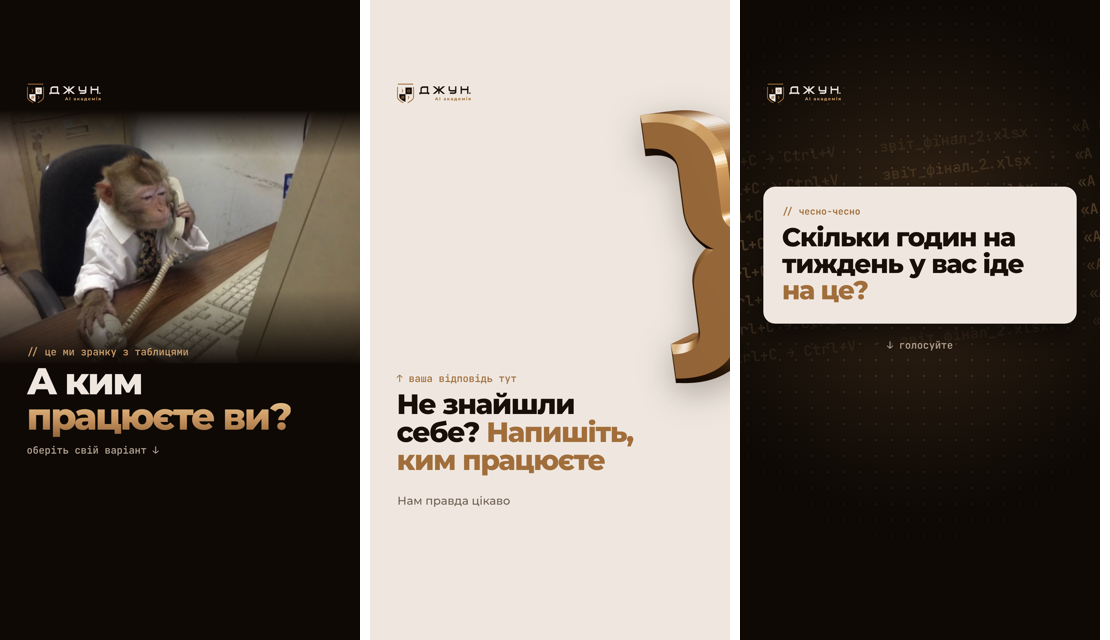
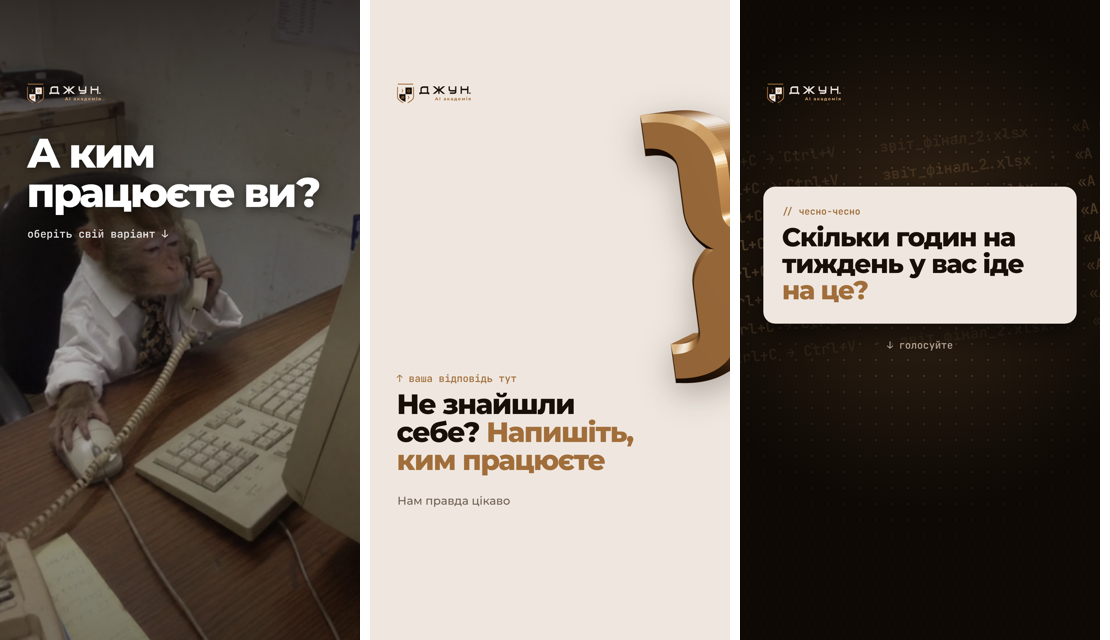
Story 1: full-bleed meme, white text
Claude-Session: https://claude.ai/code/session_01F8vpXYV6V72iEGbNVpHMN7

Changed region(s): [[0.0, 0.0, 0.3369, 1.0]]

diff --git a/2026-11-03_stories/v2/story_1_who.html b/2026-11-03_stories/v2/story_1_who.html
@@ -3,13 +3,10 @@
 .logo{position:absolute;top:250px;left:80px;display:flex;align-items:center;gap:14px;z-index:3}
 .logo .w{display:flex;flex-direction:column;align-items:flex-end}.logo small{font:700 13px/1 M;letter-spacing:.2em;margin-top:7px;margin-right:-.2em;color:#D2A26C}
 
-body{background:#0e0905;color:#EFE7DF}
-.ph{position:absolute;left:0;right:0;top:330px;height:760px;background:url(meme_monkey.jpg) center 45%/cover}
-.fade{position:absolute;left:0;right:0;top:330px;height:770px;background:linear-gradient(180deg,#0e0905 0%,rgba(14,9,5,0) 18%,rgba(14,9,5,0) 70%,#0e0905 100%)}
-.k{position:absolute;left:80px;top:1040px;font:500 30px/1 J;color:#D2A26C}
-h1{position:absolute;left:80px;right:80px;top:1090px;font-weight:800;font-size:112px;line-height:.95;letter-spacing:-.05em}
-h1 em{font-style:normal;background:linear-gradient(180deg,#F2D29A 0%,#C99662 55%,#8E5F33 100%);-webkit-background-clip:text;color:transparent}
-.mini{position:absolute;left:80px;top:1330px;font:500 30px/1.35 J;color:#B9A897}
-</style><div class="ph"></div><div class="fade"></div><div class="logo"><img src="crest_light.svg" style="height:60px"><div class="w"><img src="letters_light.svg" style="height:25px"><small>AI академія</small></div></div>
-<div class="k">// це ми зранку з таблицями</div><h1>А ким<br><em>працюєте ви?</em></h1>
+body{background:url(meme_monkey.jpg) 38% center/cover;color:#fff}
+.dim{position:absolute;inset:0;background:linear-gradient(180deg,rgba(10,6,3,.82) 0%,rgba(10,6,3,.55) 32%,rgba(10,6,3,.3) 55%,rgba(10,6,3,.55) 100%)}
+h1{position:absolute;left:80px;right:80px;top:400px;font-weight:800;font-size:124px;line-height:.95;letter-spacing:-.05em;text-shadow:0 6px 30px rgba(0,0,0,.5)}
+.mini{position:absolute;left:82px;top:680px;font:500 32px/1.35 J;color:#fff;opacity:.9}
+</style><div class="dim"></div><div class="logo"><img src="crest_light.svg" style="height:60px"><div class="w"><img src="letters_light.svg" style="height:25px"><small>AI академія</small></div></div>
+<h1>А ким<br>працюєте ви?</h1>
 <div class="mini">оберіть свій варіант ↓</div>

diff --git a/2026-11-03_stories/v2/build.py b/2026-11-03_stories/v2/build.py
@@ -12,15 +12,12 @@ def logo(light=True):
 S={}
 # 1: giant centered type + floating role chips; quiz bottom
 S['1_who']=f'''<!doctype html><meta charset="utf-8"><style>{BASE}
-body{{background:#0e0905;color:#EFE7DF}}
-.ph{{position:absolute;left:0;right:0;top:330px;height:760px;background:url(meme_monkey.jpg) center 45%/cover}}
-.fade{{position:absolute;left:0;right:0;top:330px;height:770px;background:linear-gradient(180deg,#0e0905 0%,rgba(14,9,5,0) 18%,rgba(14,9,5,0) 70%,#0e0905 100%)}}
-.k{{position:absolute;left:80px;top:1040px;font:500 30px/1 J;color:#D2A26C}}
-h1{{position:absolute;left:80px;right:80px;top:1090px;font-weight:800;font-size:112px;line-height:.95;letter-spacing:-.05em}}
-h1 em{{font-style:normal;{GOLD}}}
-.mini{{position:absolute;left:80px;top:1330px;font:500 30px/1.35 J;color:#B9A897}}
-</style><div class="ph"></div><div class="fade"></div>{logo()}
-<div class="k">// це ми зранку з таблицями</div><h1>А ким<br><em>працюєте ви?</em></h1>
+body{{background:url(meme_monkey.jpg) 38% center/cover;color:#fff}}
+.dim{{position:absolute;inset:0;background:linear-gradient(180deg,rgba(10,6,3,.82) 0%,rgba(10,6,3,.55) 32%,rgba(10,6,3,.3) 55%,rgba(10,6,3,.55) 100%)}}
+h1{{position:absolute;left:80px;right:80px;top:400px;font-weight:800;font-size:124px;line-height:.95;letter-spacing:-.05em;text-shadow:0 6px 30px rgba(0,0,0,.5)}}
+.mini{{position:absolute;left:82px;top:680px;font:500 32px/1.35 J;color:#fff;opacity:.9}}
+</style><div class="dim"></div>{logo()}
+<h1>А ким<br>працюєте ви?</h1>
 <div class="mini">оберіть свій варіант ↓</div>'''
 # 2: sticker on top half, giant 3D brace, text anchored bottom
 S['2_other']=f'''<!doctype html><meta charset="utf-8"><style>{BASE}
